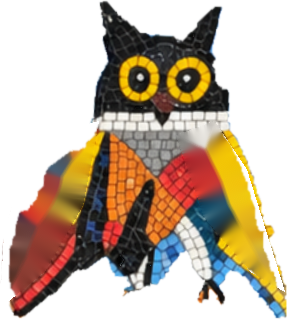
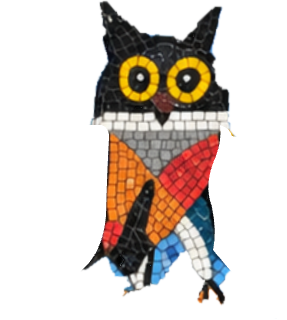
Open wings on takeoff and smoothly tuck them on landing

Changed region(s): [[0.0279, 0.375, 0.3902, 1.0], [0.6411, 0.375, 1.0, 1.0]]

diff --git a/js/perched-flock.js b/js/perched-flock.js
@@ -115,7 +115,6 @@ export class PerchedFlock {
         bird.patch.material.opacity = opacity;
       }
       if (bird.body) bird.body.material.opacity = opacity * Math.min(1, arc * 7);
-      const beat = Math.sin(elapsed * (12 + i % 3));
       bird.pos.set(
         bird.home.x + bird.direction * arc * (.082 + .054 * Math.sin(2 * angle)),
         bird.home.y + arc * (.095 + .018 * Math.cos(2 * angle + i)),
@@ -123,10 +122,16 @@ export class PerchedFlock {
       );
       bird.mesh.rotation.set(.045 * arc * Math.sin(2 * angle), bird.direction * .16 * arc, bird.direction * .19 * Math.sin(2 * angle) * arc);
       if (bird.parts) bird.mesh.material.map = bird.parts.body;
-      const spread = edge * (.58 + .42 * beat);
+      // Open before lift-off, beat in flight, then hold a braking pose and tuck.
+      const open = THREE.MathUtils.smootherstep(phase, 0, .12);
+      const tuck = 1 - THREE.MathUtils.smootherstep(phase, .77, 1);
+      const stroke = (1 - Math.cos((phase - .12) * bird.duration * (11 + i % 3))) / 2;
+      const beating = THREE.MathUtils.smoothstep(phase, .12, .21)
+        * (1 - THREE.MathUtils.smoothstep(phase, .63, .77));
+      const spread = open * tuck * (1 - .69 * beating * stroke);
       for (const { joint, feather, direction } of bird.wings) {
         joint.visible = true;
-        joint.rotation.set(.55 * spread, direction * .32 * spread, -direction * 1.35 * spread);
+        joint.rotation.set(.28 * spread, direction * .22 * spread, -direction * 1.78 * spread);
         feather.material.opacity = opacity;
       }
     }

diff --git a/js/main.js b/js/main.js
@@ -2,10 +2,10 @@ import * as THREE from 'three';
 import { LivingMural } from './mural.js?v=exhibition2';
 import { TrackedPose } from './tracked-pose.js';
 import { CanvasDemo } from './canvas-demo.js?v=panel4';
-import { PerchedFlock } from './perched-flock.js?v=panel4';
+import { PerchedFlock } from './perched-flock.js?v=wing5';
 import { Flock } from './flock.js';
 import { BirdSong } from './audio.js';
-import { loadManifest } from './rig.js?v=exhibition2';
+import { loadManifest } from './rig.js?v=wing5';
 
 const $ = (s) => document.querySelector(s);
 const qs = new URLSearchParams(location.search);
@@ -117,8 +117,8 @@ function loadAssets() {
         t.flightParts = await Promise.all(t.rig.birds.map(async (bird, i) => {
           if (!bird.wings) return null;
           const [body, ...wings] = await Promise.all([
-            L.loadAsync(t.dir + `body-${i}.png`),
-            ...bird.wings.map((_, j) => L.loadAsync(t.dir + `wing-${i}-${j}.png`))
+            L.loadAsync(t.dir + `body-${i}.png?v=wing5`),
+            ...bird.wings.map((_, j) => L.loadAsync(t.dir + `wing-${i}-${j}.png?v=wing5`))
           ]);
           for (const map of [body, ...wings]) map.colorSpace = THREE.SRGBColorSpace;
           return { body, wings };

diff --git a/js/rig.js b/js/rig.js
@@ -27,7 +27,7 @@ export async function loadManifest(base = 'assets/') {
   const m = await (await fetch(base + 'targets.json?v=exhibition2')).json();
   return Promise.all(m.targets.map(async (t, index) => {
     const dir = `${base}t/${t.id}/`;
-    const rig = await (await fetch(dir + 'rig.json')).json();
+    const rig = await (await fetch(dir + 'rig.json?v=wing5')).json();
     return { ...t, index, dir, rig };
   }));
 }

diff --git a/index.html b/index.html
@@ -242,6 +242,6 @@
 </section>
 
 <script src="vendor/qrcode.js"></script>
-<script type="module" src="js/main.js?v=panel4"></script>
+<script type="module" src="js/main.js?v=wing5"></script>
 </body>
 </html>
